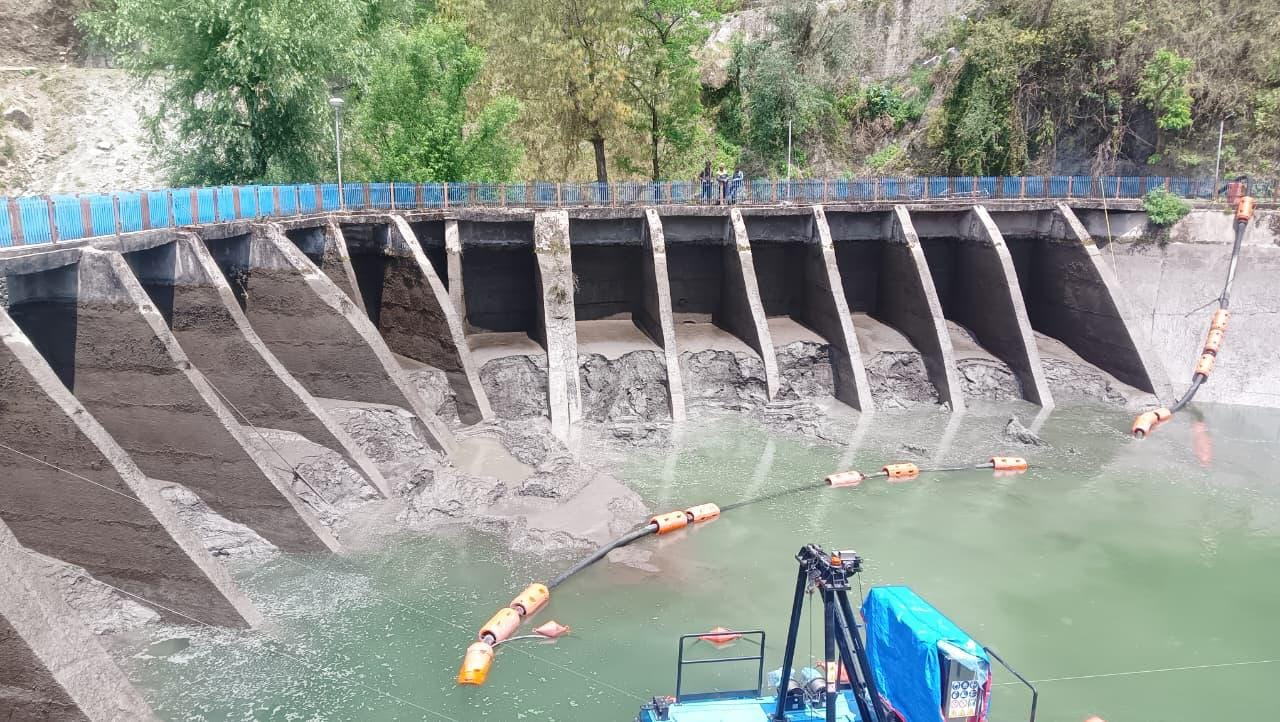
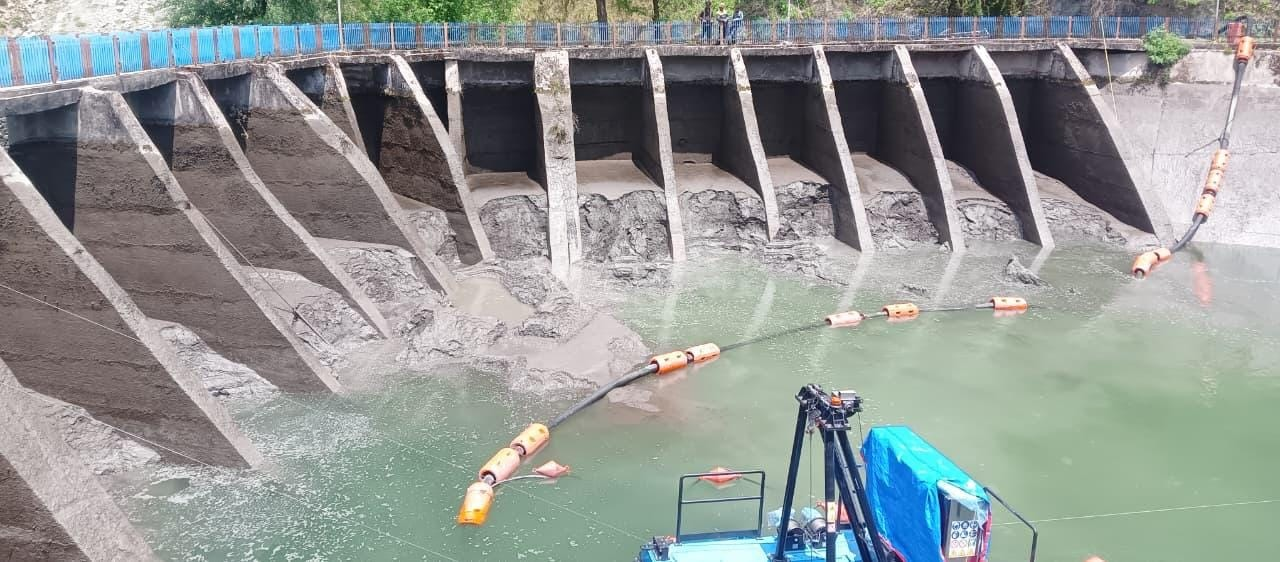
Update titles for consistency and clarity across About, PAC, and TRCM pages

diff --git a/app/products-services/pressurized-air-cables/page.tsx b/app/products-services/pressurized-air-cables/page.tsx
@@ -43,7 +43,7 @@ export default function PacPage() {
       <section className={sectionPad}>
         <SectionHeading
           label="Overview"
-          title="Power transmission insulated with pressurized air."
+          title="Power transmission insulated with pressurized air"
         />
         <div className="mt-8 grid grid-cols-1 gap-6 sm:mt-10 sm:grid-cols-2 sm:gap-[6vw]">
           {pacHomeIntro.map((p) => (
@@ -59,7 +59,7 @@ export default function PacPage() {
 
       {/* 02 — How PAC works */}
       <section className={`${sectionPad} bg-white text-navy`}>
-        <SectionHeading dark label="How PAC works" title="Three functions, one sealed pipe." />
+        <SectionHeading dark label="How PAC works" title="Three functions, one sealed pipe" />
         <div className="mt-9 grid grid-cols-1 gap-px border border-border bg-border sm:mt-11 sm:grid-cols-3">
           {pacHowItWorks.map((s) => (
             <Reveal key={s.number} className="bg-white p-6 sm:p-8">
@@ -86,7 +86,7 @@ export default function PacPage() {
         <SectionHeading
           dark
           label="Key features"
-          title="What makes PAC different."
+          title="What makes PAC different"
           deck="Capacity, efficiency, a clean insulating medium and built-in monitoring in one metallic system."
         />
         <RevealStagger className="mt-9 grid grid-cols-1 gap-px border border-border bg-border sm:mt-11 sm:grid-cols-2 lg:grid-cols-4">
@@ -133,7 +133,7 @@ export default function PacPage() {
 
       {/* 05 — Key components */}
       <section className={`${sectionPad} bg-white`}>
-        <SectionHeading label="Key components" title="What a PAC system is made of." />
+        <SectionHeading label="Key components" title="What a PAC system is made of" />
         <div className="mt-8 sm:mt-10">
           <FeatureRows items={pacComponents.map((c) => ({ title: c.title, text: c.text }))} />
         </div>
@@ -141,7 +141,7 @@ export default function PacPage() {
 
       {/* 06 — Technical specifications */}
       <section className={sectionPad}>
-        <SectionHeading label="Technical specifications" title="Basmni PAC system parameters." />
+        <SectionHeading label="Technical specifications" title="Basmni PAC system parameters" />
         <div className="mt-8 grid grid-cols-1 gap-8 sm:mt-10 sm:grid-cols-[1fr_0.9fr] sm:gap-[6vw]">
           <Reveal>
             <table className="w-full border-collapse text-left">
@@ -175,7 +175,7 @@ export default function PacPage() {
         <SectionHeading
           dark
           label="Solutions by grid level"
-          title="Where PAC fits across the grid."
+          title="Where PAC fits across the grid"
           deck="From transmission networks and substations to specialised high-current applications — engineered to the rated parameters of each project."
         />
         <RevealStagger
@@ -216,7 +216,7 @@ export default function PacPage() {
       <section className={sectionPad}>
         <SectionHeading
           label="Comparison"
-          title="PAC vs established alternatives."
+          title="PAC vs established alternatives"
           deck="How a pressurized-air cable compares with underground XLPE cable and with overhead lines."
         />
         <div className="mt-8 sm:mt-10">
@@ -238,7 +238,7 @@ export default function PacPage() {
         <SectionHeading
           dark
           label="Proven engineering"
-          title="Established principles, a cleaner architecture."
+          title="Established principles, a cleaner architecture"
         />
         <div className="mt-8 grid grid-cols-1 gap-8 sm:mt-10 sm:grid-cols-[1fr_0.9fr] sm:gap-[6vw]">
           <Reveal>
@@ -306,7 +306,7 @@ export default function PacPage() {
 
       {/* 11 — Engineering & installation */}
       <section className={`${sectionPad} bg-white text-navy`}>
-        <SectionHeading dark label="Engineering & installation" title="One accountable scope." />
+        <SectionHeading dark label="Engineering & installation" title="One accountable scope" />
         <p className="ml-auto mt-6 max-w-[420px] leading-[1.6] text-muted">
           {pacInstallation.intro}
         </p>
@@ -337,7 +337,7 @@ export default function PacPage() {
       <section className={sectionPad}>
         <SectionHeading
           label="Engineering support"
-          title="Work with our engineering team."
+          title="Work with our engineering team"
           deck={pacEngineeringSupport.intro}
         />
         <RevealStagger
@@ -357,7 +357,7 @@ export default function PacPage() {
 
       {/* 13 — FAQ */}
       <section className={`${sectionPad} bg-white`}>
-        <SectionHeading label="FAQ" title="Common questions." />
+        <SectionHeading label="FAQ" title="Common questions" />
         <div className="mt-9 sm:mt-11">
           <FAQ items={pacFaq} />
         </div>

diff --git a/app/about-us/page.tsx b/app/about-us/page.tsx
@@ -24,7 +24,7 @@ export default function AboutPage() {
       <section className={`${sectionPad} pt-[100px] sm:pt-[136px] lg:pt-[136px]`}>
         <div className="mx-auto max-w-[900px] text-center">
           <h1 className="text-[clamp(1.8rem,6vw,4rem)] uppercase leading-[1.04] tracking-tightest [overflow-wrap:anywhere]">
-            About Basmni
+            Basmni: A Brief Inside
           </h1>
         </div>
 
@@ -171,8 +171,8 @@ export default function AboutPage() {
             <ul className="mt-7 space-y-2.5">
               {[
                 'Four machine types for any intake',
-                'Hydraulic-arm reach up to ~20 m',
-                'Wire-rope depth beyond 20 m',
+                'Hydraulic-arm reach up to ~30 m',
+                'Wire-rope TRCM  any depth',
                 '24/7 automated cleaning cycles',
               ].map((p) => (
                 <li key={p} className="flex gap-3 text-[1rem] text-muted">
@@ -200,7 +200,7 @@ export default function AboutPage() {
               Deep Dam &amp; Reservoir Dredging
             </h2>
             <p className="mt-5 max-w-[560px] leading-[1.7] text-muted">
-              Sediment fills the dead-storage zone, chokes intakes and cuts usable capacity. Basmni
+              Sediment fills the dead-storage zone, chokes intakes and depletes usable capacity. Basmni
               takes the whole recovery scope &mdash; engineering, mobilisation and operation &mdash;
               using cable-deployed submersible pumps and sediment fluidisation to work reliably down
               to around 100&nbsp;m, at high solids concentrations and over long discharge pipelines.
@@ -282,7 +282,7 @@ export default function AboutPage() {
             <ul className="mt-7 space-y-2.5">
               {[
                 'Site-specific structure engineering',
-                'Foundation and seepage treatment',
+                'Foundation and Grouting works',
                 'Spillways and flood-passing works',
                 'Coordinated with gates and racks',
               ].map((p) => (

diff --git a/app/products-services/trash-rack-cleaning-machines/page.tsx b/app/products-services/trash-rack-cleaning-machines/page.tsx
@@ -77,7 +77,7 @@ export default function TrcmPage() {
         <SectionHeading
           dark
           label="Key features"
-          title="Automated, and matched to the intake."
+          title="Automated, and matched to the intake"
           deck="The mechanism is chosen for the depth, channel and debris — not one machine for every site."
         />
         <RevealStagger className="mt-9 grid grid-cols-1 gap-px border border-border bg-border sm:mt-11 sm:grid-cols-2 lg:grid-cols-3">
@@ -94,7 +94,7 @@ export default function TrcmPage() {
 
       {/* Configurations */}
       <section className={`${sectionPad} bg-white`}>
-        <SectionHeading label="Configurations" title="Four ways to keep a rack clean." />
+        <SectionHeading label="Configurations" title="Four ways to keep a rack clean" />
         <RevealStagger
           className="mt-9 grid grid-cols-1 gap-4 sm:mt-11 sm:grid-cols-2"
           stagger={0.08}
